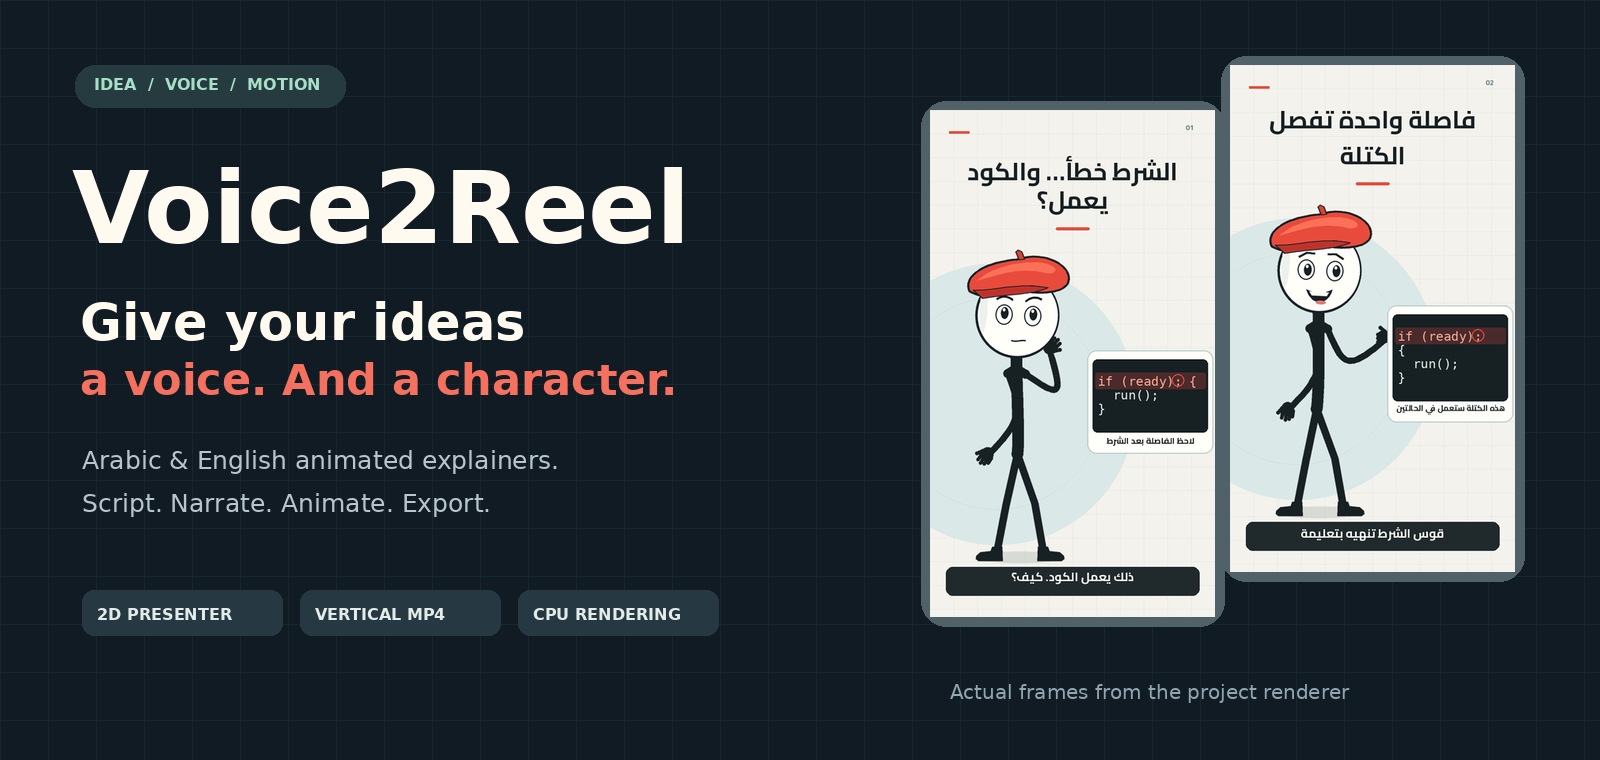
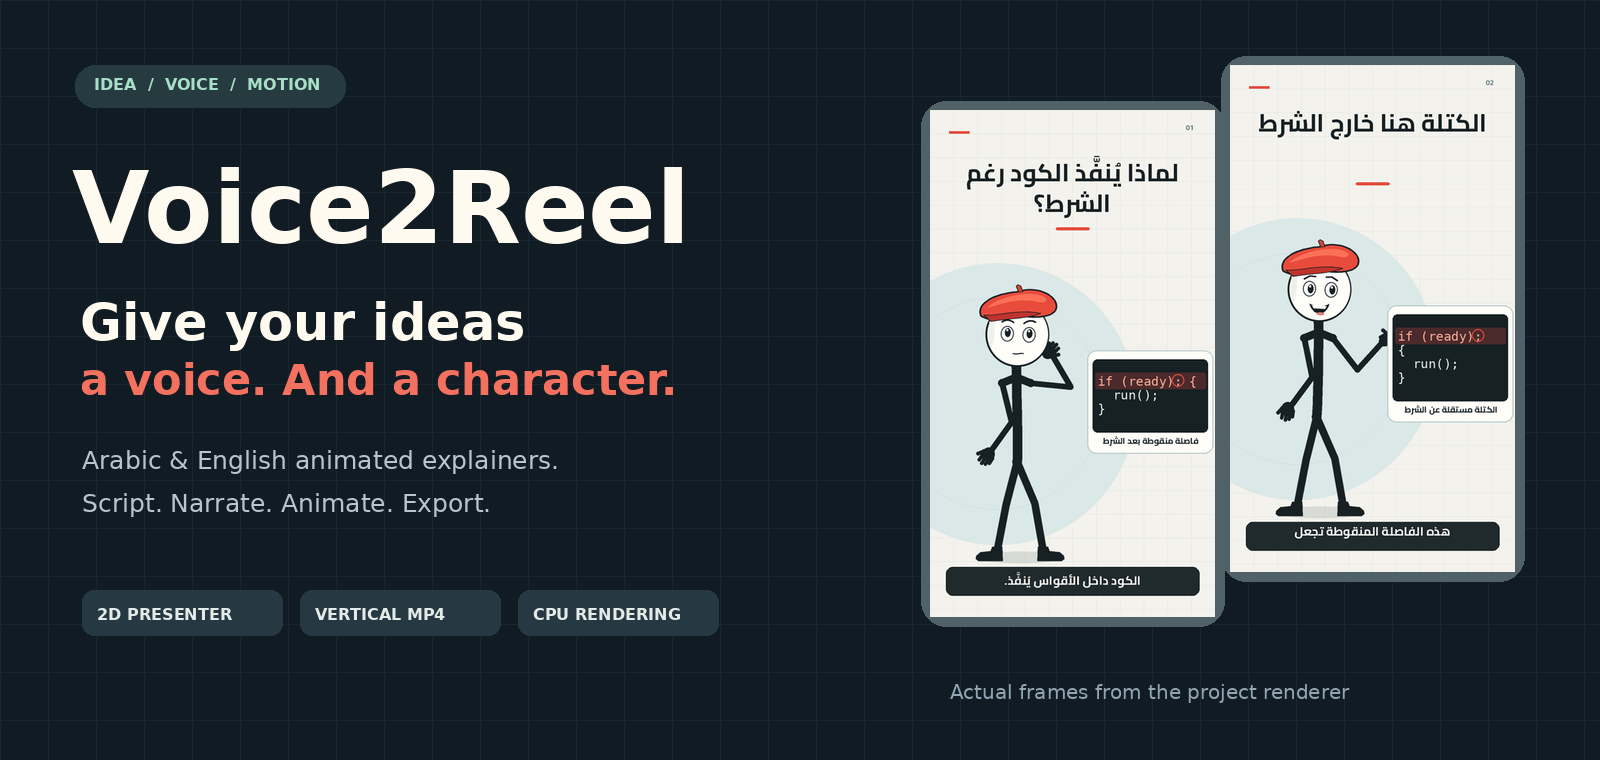
fix: improve presenter proportions and Arabic technical narration

diff --git a/voice2reel/presenter_render.py b/voice2reel/presenter_render.py
@@ -16,7 +16,7 @@ from PIL import Image, ImageDraw, ImageFont, features
 from voice2reel.motion_preview import ease, joint, mix
 from voice2reel.render import find_font, validate_timeline, wrap_text
 
-VERSION = "presenter-2"
+VERSION = "presenter-3-proportioned-rig"
 PROFILES = {"fast": (540, 24, "ultrafast"), "quality": (720, 30, "veryfast")}
 INK, RED = "#172023", "#e34d3e"
 
@@ -149,7 +149,7 @@ def glove(kind, angle):
         for x, y in [(38, 103), (52, 111), (66, 108), (78, 99)]:
             rounded_line(d, [(x, 77), (x - 3, y)], 13)
         rounded_line(d, [(37, 65), (21, 83)], 14)
-    return im.rotate(angle, resample=Image.Resampling.BICUBIC, expand=False)
+    return im.rotate(angle, resample=Image.Resampling.BICUBIC, center=(56, 76), expand=False)
 
 
 GESTURES = {
@@ -357,7 +357,7 @@ class PresenterRenderer:
         breath = 1.4 * math.sin(t * 2.1)
         lean = mix(0 if index == 0 else 2, 4 if scene.gesture == "point" else -2, u)
         lean += 1.6 * math.sin(t * 0.8)
-        hip = (164 + 2 * math.sin(t * 0.7), 650)
+        hip = (164 + 1.2 * math.sin(t * 0.7), 665)
 
         def line(points, width):
             rounded_line(d, [(round(x * 2), round(y * 2) - 500) for x, y in points], round(width * 2))
@@ -378,10 +378,10 @@ class PresenterRenderer:
                 (x - 11 * mirror, 852),
             ]
             d.polygon([(round(px * 2), round(py * 2) - 500) for px, py in shoe], fill=INK)
-        torso = curve([(164 + lean, 468 + breath), (164 + lean, 530 + breath), (169, 601), hip])
-        line(torso, 22)
-        shoulders = [(148 + lean, 498 + breath), (181 + lean, 499 + breath)]
-        line([shoulders[0], (164 + lean, 488 + breath), shoulders[1]], 17)
+        torso = curve([(164 + lean, 486 + breath), (164 + lean, 540 + breath), (167, 615), hip])
+        line(torso, 18)
+        shoulders = [(137 + lean, 516 + breath), (191 + lean, 516 + breath)]
+        line([shoulders[0], (164 + lean, 505 + breath), shoulders[1]], 15)
         for side in [0, 1]:
             a, b = old[side], new[side]
             wrist = (mix(a[0], b[0], u), mix(a[1], b[1], u) + breath)
@@ -396,17 +396,10 @@ class PresenterRenderer:
                     wrist[0] + amp * math.sin(local * (6.8 if amp == 9 else 2.6)) * u,
                     wrist[1] + 2 * math.sin(local * 2.1) * u,
                 )
-            elbow, end = joint(shoulders[side], wrist, 91, 98, 1 if side else -1)
-            # A curved elbow makes the silhouette feel drawn, without disconnected joints.
-            points = curve(
-                [
-                    shoulders[side],
-                    (mix(shoulders[side][0], elbow[0], 0.8), mix(shoulders[side][1], elbow[1], 0.8)),
-                    elbow,
-                    end,
-                ]
-            )
-            line(points, 12)
+            elbow, end = joint(shoulders[side], wrist, 76, 78, 1 if side else -1)
+            # Draw the solved bones through the elbow. A cubic shortcut visibly
+            # shortened the upper arm and made the limb look like rubber.
+            line([shoulders[side], elbow, end], 11)
             kind = new[2 + side] if u > 0.5 else old[2 + side]
             angle = round(mix(old[4 + side], new[4 + side], u) / 5) * 5
             hand = glove(kind, angle)
@@ -419,7 +412,9 @@ class PresenterRenderer:
         blink = abs((t + 1.2) % 4.4 - 2.2) < 0.065
         tilt = round(mix(0, -3 if scene.emotion in ("thinking", "concerned") else 2, u))
         head = face(scene.emotion, mouth, blink, 2 if scene.gesture == "point" else 0, tilt)
-        im.alpha_composite(head, (round((50 + lean) * 2), round((250 + breath) * 2) - 500))
+        # Keep the jaw joined to the neck while reducing the oversized head.
+        head = head.resize((334, 380), Image.Resampling.LANCZOS)
+        im.alpha_composite(head, (round((78 + lean) * 2), round((319 + breath) * 2) - 500))
         prior = CAMERAS[previous.camera] if index else CAMERAS[scene.camera]
         current = CAMERAS[scene.camera]
         zoom, panx, pany = [mix(a, b, u) for a, b in zip(prior, current)]

diff --git a/tests/test_presenter_regressions.py b/tests/test_presenter_regressions.py
@@ -1,0 +1,64 @@
+"""Regressions for jointed arms and the reviewed JavaScript explanation."""
+
+import json
+import math
+from pathlib import Path
+import shutil
+import subprocess
+
+import numpy as np
+import pytest
+
+import voice2reel.presenter_render as renderer
+from voice2reel.presenter_schema import PresenterScript
+
+
+EXAMPLE = Path(__file__).resolve().parents[1] / 'examples/presenter_v2/semicolon_ar.json'
+
+
+@pytest.mark.parametrize('gesture', renderer.GESTURES)
+@pytest.mark.parametrize('local', [0.0, 0.24, 1.2, 3.1])
+def test_visible_arm_passes_through_solved_elbow(monkeypatch, gesture, local):
+    script = PresenterScript.model_validate_json(EXAMPLE.read_text())
+    script.scenes[1].gesture = gesture
+    segments = [dict(start=i * 4, end=(i + 1) * 4, text=s.narration) for i, s in enumerate(script.scenes)]
+    actor = renderer.PresenterRenderer(script, segments, np.zeros(24000 * 12), 24000)
+    solved, drawn = [], []
+    original_joint, original_line = renderer.joint, renderer.rounded_line
+
+    def joint(root, target, upper, lower, bend):
+        elbow, wrist = original_joint(root, target, upper, lower, bend)
+        assert math.dist(root, elbow) == pytest.approx(upper)
+        assert math.dist(elbow, wrist) == pytest.approx(lower)
+        solved.append([root, elbow, wrist])
+        return elbow, wrist
+
+    def line(draw, points, width, color=renderer.INK):
+        drawn.append(points)
+        return original_line(draw, points, width, color)
+
+    monkeypatch.setattr(renderer, 'joint', joint)
+    monkeypatch.setattr(renderer, 'rounded_line', line)
+    actor.character(4 + local, 1, local)
+    assert len(solved) == 2
+    for bones in solved:
+        pixels = [(round(x * 2), round(y * 2) - 500) for x, y in bones]
+        assert pixels in drawn, 'The visible arm must follow both bones through the elbow'
+
+
+def test_reviewed_example_code_exhibits_and_fixes_the_explained_bug():
+    node = shutil.which('node')
+    if not node:
+        pytest.skip('Node is needed to execute the JavaScript example')
+    script = json.loads(EXAMPLE.read_text())
+    for i, scene in enumerate(script['scenes']):
+        code = scene['visual']['code']
+        assert '\\n' not in code
+        assert '\n' in code
+        for ready in (False, True):
+            program = (
+                f'const ready = {json.dumps(ready)}; let calls = 0; '
+                'function run() { calls++; }\n' + code + '\nconsole.log(calls);'
+            )
+            result = subprocess.run([node, '-e', program], capture_output=True, text=True, check=True)
+            assert int(result.stdout) == (int(ready) if i == 2 else 1)

diff --git a/voice2reel/presenter.py b/voice2reel/presenter.py
@@ -16,7 +16,7 @@ from voice2reel.voice.model import MODEL_REVISION as XTTS_REVISION
 from voice2reel.presenter_schema import PresenterScript, ReelRequest, parse_script
 from voice2reel.presenter_render import VERSION as RENDER_VERSION, render, validate_audio
 
-PROMPT_VERSION = "presenter-3-natural-arabic"
+PROMPT_VERSION = "presenter-4-precise-technical-arabic"
 
 
 def signature(value):
@@ -70,6 +70,8 @@ def generate_script(writer, request, trace_path, attempts=1):
         "ممنوع وضع أي كلمة لاتينية أو اسم كود في الكلام المنطوق؛ استعمل الوصف العربي الصحيح. "
         "تسميات اللوحات أشياء أو خطوات واضحة من الفكرة، لا صفات مبهمة مثل محدد أو إجباري. "
         "التزم بالحقائق المعطاة، ولا تصف حركة الشخصية في الكلام المنطوق. لا تقرأ كودًا حرفيًا. "
+        "حافظ على الاسم الكامل للمصطلح: الفاصلة المنقوطة ليست الفاصلة، وجافا سكريبت ليست جافا. "
+        "عند شرح خطأ برمجي حدد موضعه وسببه بدقة؛ لا تعمم أن علامة صحيحة في مواضع أخرى خطأ دائمًا. "
         if language == "ar"
         else "Write a concise English explainer. Follow the supplied facts; do not invent claims. "
         "Narration teaches the topic, not the character movements. Do not read code aloud. "

diff --git a/tests/test_sound_design.py b/tests/test_sound_design.py
@@ -86,3 +86,28 @@ def test_changing_music_reuses_the_narration_and_rebuilds_video(project):  # noq
 def test_missing_custom_music_fails_before_voice_generation(tmp_path):
     with pytest.raises(ValueError, match="existing file"):
         run(tmp_path / "project", script_path=tmp_path / "script.json", music_path=tmp_path / "missing.mp3")
+
+
+def test_arabic_technical_name_is_prepared_for_speech_without_changing_script(tmp_path, monkeypatch):
+    import asyncio
+    import edge_tts
+
+    spoken = []
+
+    class CaptureSpeech:
+        def __init__(self, text, *args, **kwargs):
+            spoken.append(text)
+
+        async def stream(self):
+            if False:
+                yield
+
+    monkeypatch.setattr(edge_tts, "Communicate", CaptureSpeech)
+    script = sample()
+    script.scenes[0].narration = "نتعلم جافاسكربت اليوم، وليست جافا."
+    script.scenes[1].narration = "نراجع جافا سكربت ثم جافاسكريبت."
+    with pytest.raises(ValueError, match="no audio"):
+        asyncio.run(NeuralVoice("ar")._scenes(script, tmp_path))
+    assert spoken[0] == "نتعلم جافا سكريبت اليوم، وليست جافا."
+    assert spoken[1] == "نراجع جافا سكريبت ثم جافا سكريبت."
+    assert script.scenes[0].narration == "نتعلم جافاسكربت اليوم، وليست جافا."

diff --git a/voice2reel/neural_voice.py b/voice2reel/neural_voice.py
@@ -2,6 +2,7 @@
 
 import asyncio
 import os
+import re
 import subprocess
 import tempfile
 import time
@@ -12,7 +13,7 @@ import soundfile as sf
 
 from voice2reel.common import write_json
 
-VERSION = "edge-tts-7.3.1-v1"
+VERSION = "edge-tts-7.3.1-v2-arabic-terms"
 VOICES = {"ar": "ar-JO-TaimNeural", "en": "en-US-GuyNeural"}
 
 
@@ -44,7 +45,10 @@ class NeuralVoice:
         async def scene(index, text):
             async with semaphore:
                 speech = edge_tts.Communicate(
-                    text,
+                    # Separate the technical name for the Arabic speech engine;
+                    # keep the reviewed source text unchanged in metadata.
+                    re.sub(r"(?<!\w)جافا\s*سكري?بت(?!\w)", "جافا سكريبت", text)
+                    if self.language == "ar" else text,
                     self.voice,
                     rate=f"{self.rate:+d}%",
                     boundary="WordBoundary",
